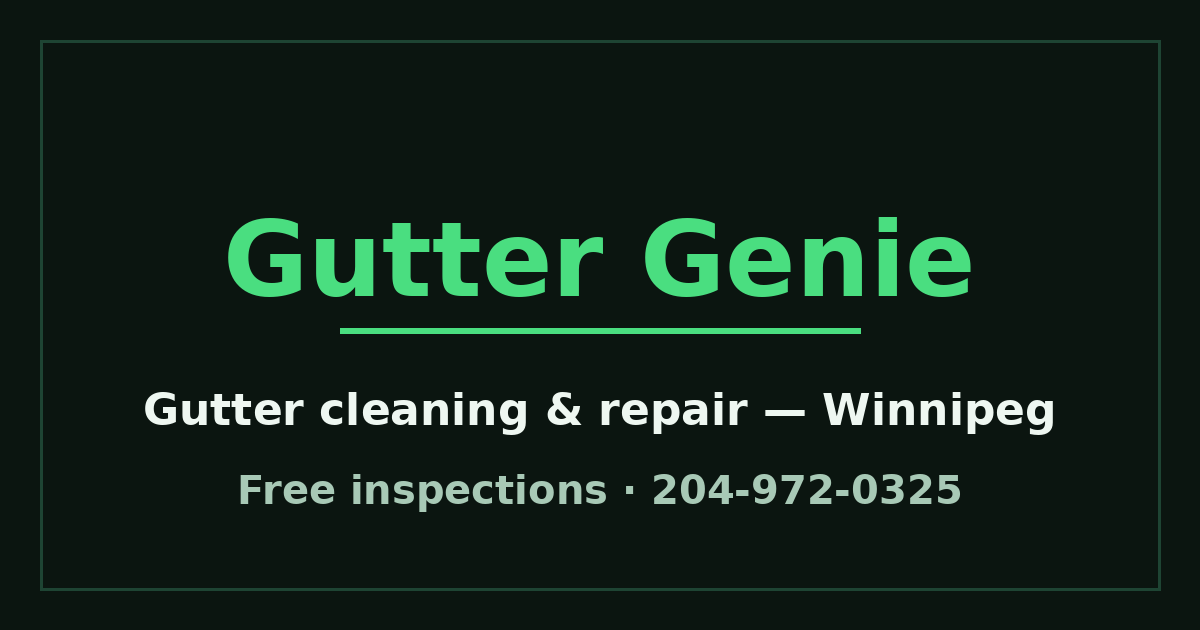
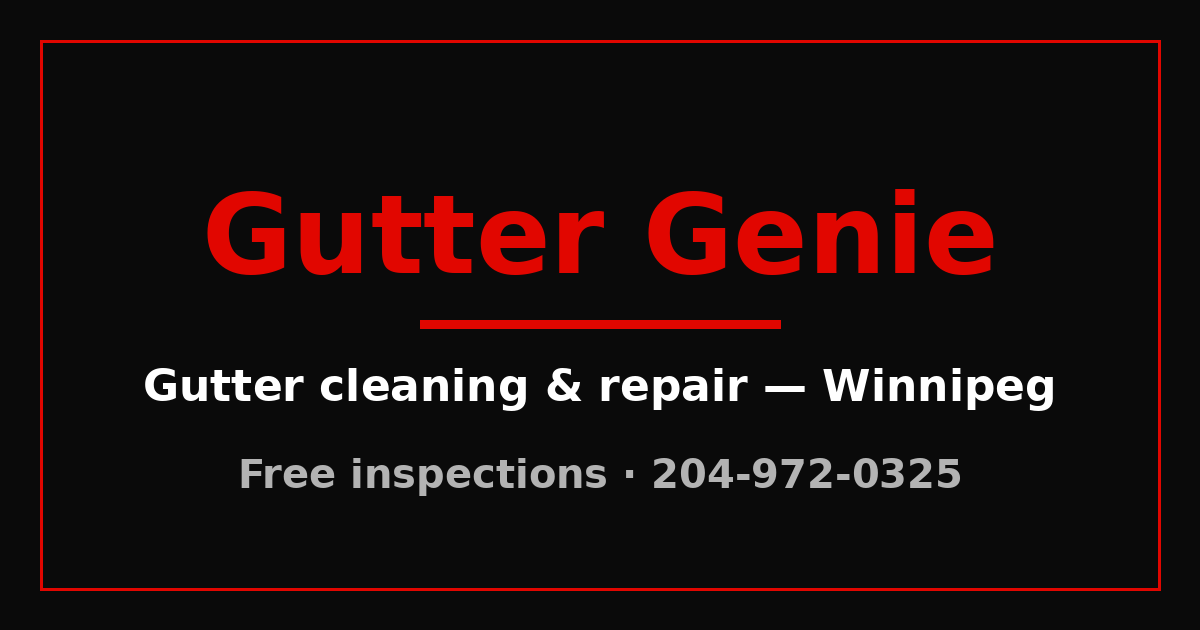
Re-theme Gutter Genie site to red and black
Replace the dark-green palette with the red/black palette used by the
other business sites: red #e10600, black #0a0a0a, dark panels #1c1c1c,
white text, grey muted. Shared stylesheet only, so all pages change
together. OG share image regenerated in the same layout/text, red/black.
No content, pages, rates, phone, email, or function changed.

diff --git a/styles.css b/styles.css
@@ -1,7 +1,7 @@
-/* Gutter Genie shared styles - dark green theme, WCAG-minded contrast, responsive */
+/* Gutter Genie shared styles - red and black theme, WCAG-minded contrast, responsive */
 :root{
-  --bg:#0b1510; --panel:#10241a; --border:#1e4433;
-  --green:#4ade80; --green-dark:#16a34a; --text:#eef7f1; --muted:#a8c9b6;
+  --bg:#0a0a0a; --panel:#1c1c1c; --border:#2e2e2e;
+  --red:#e10600; --red-dark:#a80000; --text:#ffffff; --muted:#b3b3b3;
   --amber:#fbbf24; --danger:#f87171; --radius:14px;
   --focus:#fef08a;
 }
@@ -10,38 +10,38 @@ html{scroll-behavior:smooth}
 body{background:var(--bg);color:var(--text);line-height:1.65;
   font-family:'Segoe UI',system-ui,-apple-system,Roboto,Arial,sans-serif}
 .wrap{max-width:1060px;margin:0 auto;padding:0 20px}
-a{color:var(--green)}
+a{color:var(--red)}
 :focus-visible{outline:3px solid var(--focus);outline-offset:2px;border-radius:4px}
 
 /* Skip link for keyboard users */
-.skip-link{position:absolute;left:-9999px;top:0;background:var(--green);color:#06210f;
+.skip-link{position:absolute;left:-9999px;top:0;background:var(--red);color:#ffffff;
   padding:10px 16px;font-weight:700;z-index:100;border-radius:0 0 8px 0}
 .skip-link:focus{left:0}
 
 /* Header / nav */
 .site-header{padding:14px 0;border-bottom:1px solid var(--border);position:sticky;top:0;
-  background:rgba(11,21,16,.96);z-index:50}
+  background:rgba(10,10,10,.96);z-index:50}
 .site-header .wrap{display:flex;justify-content:space-between;align-items:center;gap:16px;flex-wrap:wrap}
-.logo{font-size:24px;font-weight:800;color:var(--green);text-decoration:none}
+.logo{font-size:24px;font-weight:800;color:var(--red);text-decoration:none}
 .logo span{color:var(--text)}
 nav.main-nav{display:flex;gap:4px;flex-wrap:wrap}
 nav.main-nav a{color:var(--muted);text-decoration:none;padding:8px 12px;border-radius:8px;font-size:.95rem}
 nav.main-nav a:hover{color:var(--text);background:var(--panel)}
-nav.main-nav a[aria-current="page"]{color:var(--green);font-weight:700;background:var(--panel)}
-.header-cta{background:var(--green);color:#06210f;font-weight:700;padding:10px 20px;
+nav.main-nav a[aria-current="page"]{color:var(--red);font-weight:700;background:var(--panel)}
+.header-cta{background:var(--red);color:#ffffff;font-weight:700;padding:10px 20px;
   border-radius:10px;text-decoration:none;font-size:15px;white-space:nowrap}
 .header-cta:hover{filter:brightness(1.1)}
 
 /* Hero */
 .hero{padding:64px 0 48px;text-align:center}
 .hero h1{font-size:2.8rem;line-height:1.2;margin-bottom:16px}
-.hero h1 em{color:var(--green);font-style:normal}
+.hero h1 em{color:var(--red);font-style:normal}
 .hero p.lead{color:var(--muted);font-size:1.2rem;max-width:640px;margin:0 auto 32px}
 .cta-row{display:flex;gap:14px;justify-content:center;flex-wrap:wrap}
-.cta{background:var(--green);color:#06210f;font-weight:700;padding:15px 32px;
-  border-radius:12px;text-decoration:none;font-size:18px;border:2px solid var(--green)}
+.cta{background:var(--red);color:#ffffff;font-weight:700;padding:15px 32px;
+  border-radius:12px;text-decoration:none;font-size:18px;border:2px solid var(--red)}
 .cta:hover{filter:brightness(1.1)}
-.cta.ghost{background:transparent;border:2px solid var(--green);color:var(--green)}
+.cta.ghost{background:transparent;border:2px solid var(--red);color:var(--red)}
 .badges{display:flex;gap:20px;justify-content:center;flex-wrap:wrap;margin-top:36px;
   color:var(--muted);font-size:.95rem;list-style:none;padding:0}
 
@@ -51,9 +51,9 @@ section.block h2{text-align:center;font-size:2rem;margin-bottom:8px}
 .sub{text-align:center;color:var(--muted);margin-bottom:32px;max-width:680px;margin-left:auto;margin-right:auto}
 .grid{display:grid;grid-template-columns:repeat(auto-fit,minmax(240px,1fr));gap:16px}
 .card{background:var(--panel);border:1px solid var(--border);border-radius:var(--radius);padding:26px}
-.card h3{color:var(--green);margin-bottom:8px;font-size:1.15rem}
+.card h3{color:var(--red);margin-bottom:8px;font-size:1.15rem}
 .card p{color:var(--muted);font-size:.95rem}
-.card a.card-link{color:var(--green);font-weight:600;text-decoration:none}
+.card a.card-link{color:var(--red);font-weight:600;text-decoration:none}
 .card a.card-link:hover{text-decoration:underline}
 .band{background:var(--panel);border-top:1px solid var(--border);border-bottom:1px solid var(--border)}
 
@@ -61,7 +61,7 @@ section.block h2{text-align:center;font-size:2rem;margin-bottom:8px}
 .price-row{display:flex;justify-content:space-between;gap:12px;max-width:620px;margin:0 auto;
   padding:12px 4px;border-bottom:1px dashed var(--border);font-size:1.05rem}
 .price-row:last-child{border:none}
-.price-row b{color:var(--green);white-space:nowrap}
+.price-row b{color:var(--red);white-space:nowrap}
 .fine{text-align:center;color:var(--muted);font-size:.85rem;margin-top:20px;max-width:640px;margin-left:auto;margin-right:auto}
 
 /* Estimate calculator */
@@ -74,14 +74,14 @@ section.block h2{text-align:center;font-size:2rem;margin-bottom:8px}
 .field input[type="number"],.field select{
   width:100%;padding:12px;border-radius:10px;border:1px solid var(--border);
   background:var(--bg);color:var(--text);font-size:1rem}
-.field input[type="checkbox"]{width:20px;height:20px;accent-color:var(--green);vertical-align:middle;margin-right:8px}
+.field input[type="checkbox"]{width:20px;height:20px;accent-color:var(--red);vertical-align:middle;margin-right:8px}
 .calc-result{background:var(--bg);border:1px solid var(--border);border-radius:12px;
   padding:24px;margin-top:24px;display:none}
 .calc-result.show{display:block}
 .calc-result .line{display:flex;justify-content:space-between;padding:6px 0;color:var(--muted)}
 .calc-result .line.total{border-top:1px dashed var(--border);margin-top:8px;padding-top:12px;
   color:var(--text);font-size:1.3rem;font-weight:800}
-.calc-result .line.total b{color:var(--green)}
+.calc-result .line.total b{color:var(--red)}
 .calc-error{color:var(--danger);font-size:.9rem;margin-top:8px;display:none}
 
 /* Quote form */
@@ -102,7 +102,7 @@ section.block h2{text-align:center;font-size:2rem;margin-bottom:8px}
   margin-bottom:14px;overflow:hidden}
 .faq-item summary{cursor:pointer;padding:20px 24px;font-weight:700;font-size:1.05rem;list-style:none}
 .faq-item summary::-webkit-details-marker{display:none}
-.faq-item summary::before{content:"+ ";color:var(--green);font-weight:800}
+.faq-item summary::before{content:"+ ";color:var(--red);font-weight:800}
 .faq-item[open] summary::before{content:"- "}
 .faq-item .faq-body{padding:0 24px 22px;color:var(--muted)}
 .faq-item .faq-body strong{color:var(--text)}
@@ -110,7 +110,7 @@ section.block h2{text-align:center;font-size:2rem;margin-bottom:8px}
 /* Service page extras */
 .prose{max-width:760px;margin:0 auto;color:var(--muted)}
 .prose h2{color:var(--text);text-align:left;font-size:1.6rem;margin:32px 0 12px}
-.prose h3{color:var(--green);margin:24px 0 8px}
+.prose h3{color:var(--red);margin:24px 0 8px}
 .prose p{margin-bottom:14px}
 .prose ul,.prose ol{margin:0 0 16px 22px}
 .prose li{margin-bottom:8px}
@@ -118,18 +118,18 @@ section.block h2{text-align:center;font-size:2rem;margin-bottom:8px}
 .steps li{counter-increment:step;position:relative;padding:14px 14px 14px 56px;
   background:var(--panel);border:1px solid var(--border);border-radius:12px;margin-bottom:10px}
 .steps li::before{content:counter(step);position:absolute;left:16px;top:14px;
-  width:30px;height:30px;border-radius:50%;background:var(--green);color:#06210f;
+  width:30px;height:30px;border-radius:50%;background:var(--red);color:#ffffff;
   font-weight:800;display:flex;align-items:center;justify-content:center}
 .table-wrap{overflow-x:auto;margin-bottom:20px}
 table.rates{width:100%;border-collapse:collapse;font-size:.98rem}
 table.rates th,table.rates td{padding:12px;border-bottom:1px solid var(--border);text-align:left}
-table.rates th{color:var(--green)}
+table.rates th{color:var(--red)}
 .breadcrumb{font-size:.9rem;color:var(--muted);margin:24px 0 0}
-.breadcrumb a{color:var(--green);text-decoration:none}
+.breadcrumb a{color:var(--red);text-decoration:none}
 
 /* Contact */
 .contact-block{padding:50px 0 70px;text-align:center}
-.contact-block .phone{font-size:2.2rem;font-weight:800;color:var(--green);
+.contact-block .phone{font-size:2.2rem;font-weight:800;color:var(--red);
   text-decoration:none;display:block;margin:16px 0}
 .contact-block p{color:var(--muted)}
 
@@ -138,7 +138,7 @@ footer{border-top:1px solid var(--border);padding:28px 0;color:var(--muted);font
 footer .wrap{display:flex;justify-content:space-between;gap:16px;flex-wrap:wrap;align-items:center}
 footer nav{display:flex;gap:14px;flex-wrap:wrap}
 footer nav a{color:var(--muted);text-decoration:none}
-footer nav a:hover{color:var(--green)}
+footer nav a:hover{color:var(--red)}
 
 /* Responsive */
 @media(max-width:640px){
